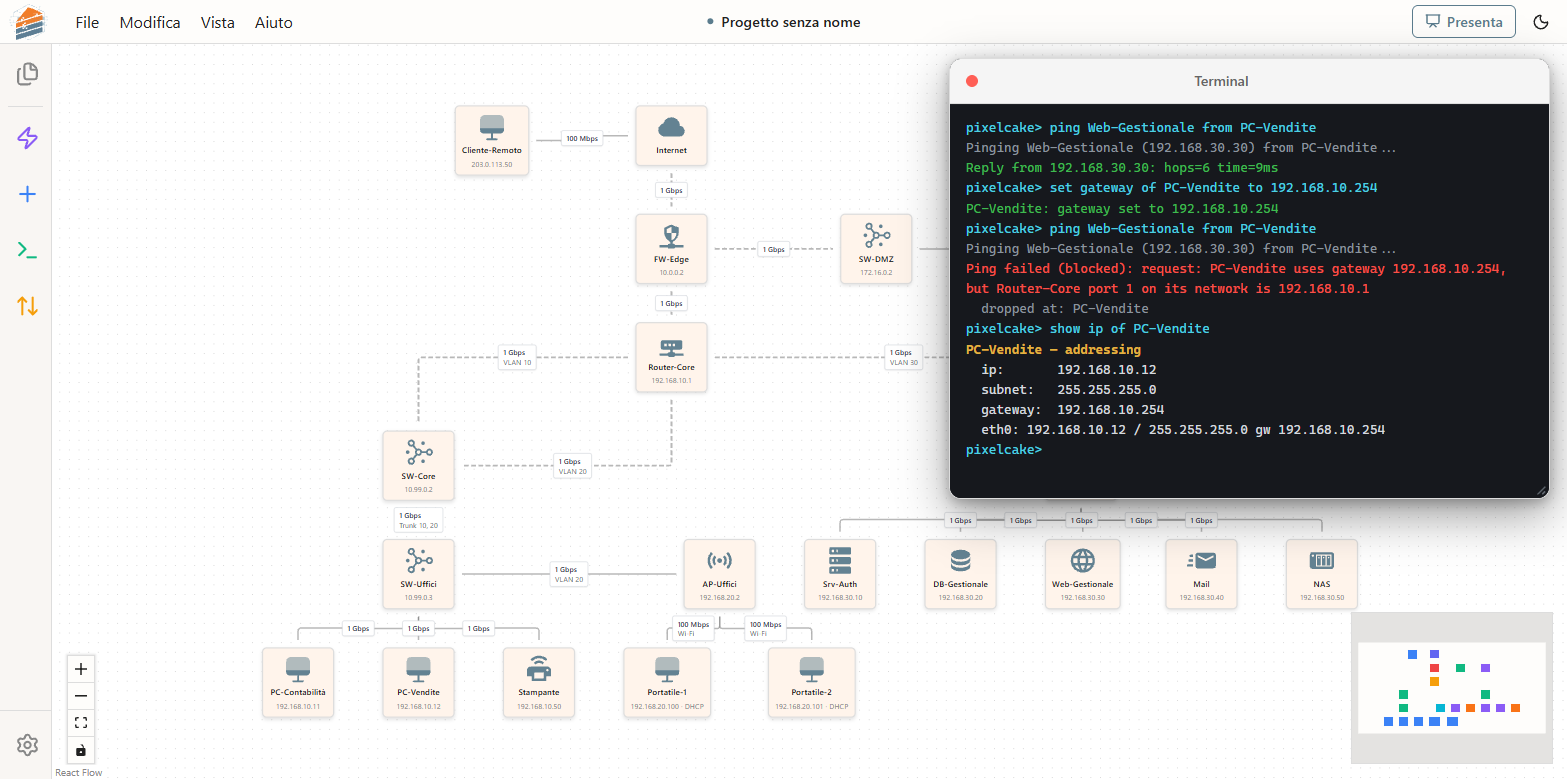
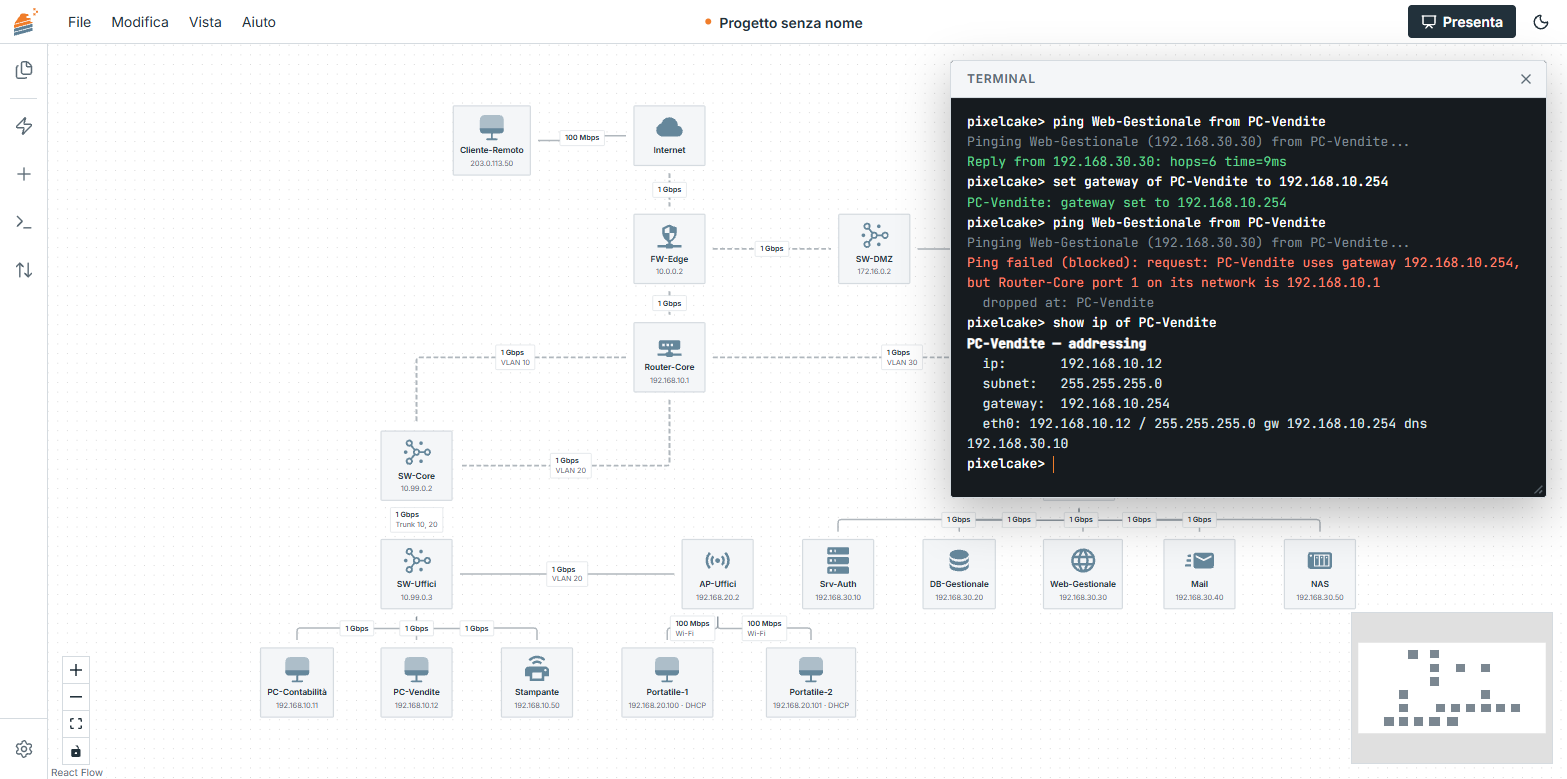
Documents and pictures for the new look
README: the three pictures taken again, the licence of the two typefaces,
and what a picture does with its texts. CHANGELOG and ARCHITECTURE: what
changed in the look and the rules it follows.

diff --git a/ARCHITECTURE.md b/ARCHITECTURE.md
@@ -104,7 +104,8 @@ While presenting, NetworkCanvas makes the drawing read-only (nothing is selected
 - **DeviceTypeDisplay** - Read-only device type preview with icon
 - **PortGrid** / **PortConfigPanel** - Port display grid + configuration panel
 - **NICList** / **NICConfigPanel** - NIC list with custom scrollbar + configuration panel
-- **Input/Select** - Compact form controls (`py-1.5`, accent color on focus)
+- **Input/Select** - Compact form controls (`py-1.5`, 14 px text, a ring of the accent on focus)
+- **Logo** - One of the four files of the logo, never drawn or typed: with the name or the symbol alone (`symbol`), in colour on a light page or negative on a dark one. The logo with the name is never asked narrower than 110 px (a test reads every use)
 
 ### Sidebar (`frontend/src/components/Sidebar/`)
 - **Sidebar** - Six buttons. Each shows its name beside it under the pointer or the keyboard; the name is drawn on the page through a portal, because the panel a button opens covers the sidebar's own layer
@@ -122,11 +123,26 @@ While presenting, NetworkCanvas makes the drawing read-only (nothing is selected
 - In the middle of the bar, the project that is open: its name, the canvas on screen when there is more than one, a dot while there are changes not saved to a file. A click opens the Explorer
 - No entry is there to announce a feature: an entry that cannot act (nothing selected to copy) is disabled only for as long as that is true
 
+## The look (`frontend/src/index.css`, `frontend/tailwind.config.js`)
+
+The interface follows the site: flat surfaces, thin lines, one accent.
+
+- **Every colour is a variable of the theme**, set for light in `:root` and for dark in `.dark` (the class is on `<html>`). No component names a colour of a fixed palette (`text-gray-500`, `dark:bg-…`) and none styles the dark theme apart: the variables change, the classes do not.
+- **Each colour has one job.** `--text-color` on `--bg-canvas` is the page, and the button that goes on is a block of the first with the second written on it (`Button` `primary`, `.presentation-primary`, `.welcome-button.primary`, `.explorer-button-accent`). `--accent-color`, the orange of the logo in both themes, marks a state: selected, in focus, open, where the packet is; what is written on a fill of it takes `--on-accent`, never white. `--accent-text` (the slate, dark on white and light on black) is for links and for the icons of a list. `--secondary-color` is the slate itself: the icon of a device, the end of a question. `--ok-color`, `--trunk-color` and `--danger-color` say that something works, is a trunk, is wrong.
+- **Under the pointer** a row, a menu entry or an icon takes `--bg-hover`, a flat grey, and an outline takes the colour of the text. Nothing glows, slides or grows.
+- **Corners** come from two sizes, `--radius` (4 px) and `--radius-small` (2 px); Tailwind's `rounded-*` are mapped to the same few values in `tailwind.config.js`. A device on the canvas keeps 3 px, the number the exported picture repeats. **Shadows** are for what floats over the page: menus, windows, a device while it is dragged.
+- **Labels** (the title of a panel, a `legend`, the heading of a section) are small capitals with space between the letters, as on the site.
+- **Typefaces**: Inter for the interface, JetBrains Mono for addresses and for the terminal, both bundled (`@fontsource-variable/inter`, `@fontsource/jetbrains-mono`, imported in `main.tsx`). The exported picture uses the typefaces of the computer instead: an SVG shown as an image cannot use the fonts of the page.
+- **The terminal** keeps a dark pane in both themes, in the colours of the terminal shown on the site (`TerminalModal.tsx`).
+
+Three test files keep it in one piece: `styleSheet.colours.test.ts` (no fixed palette, no variable without a value in both themes, one accent, nothing white on it), `utils/drawingImage.test.ts` (the picture repeats the colours and the numbers of the style sheet) and `components/Canvas/NetworkCanvas.theme.test.tsx` (the panels React Flow draws follow the theme).
+
 ## Reusable CSS Classes (`frontend/src/index.css`)
 
 | Category | Classes |
 |----------|---------|
-| Modal messages | `.modal-error-box`, `.modal-info-box` |
+| Modal messages | `.modal-error-box`, `.modal-info-box` (a rule on the left, the words in the colour of the text) |
+| A choice among a few | `.segmented` (buttons side by side, the chosen one `.active`) |
 | Explorer | `.explorer-button`, `.explorer-button-accent`, `.explorer-button-dashed`, `.explorer-canvas-card` |
 | NIC list | `.nic-list`, `.nic-card`, `.nic-card-selected` |
 
@@ -272,7 +288,9 @@ light or dark whatever the theme, a vector file, and a sharp PNG of any size.
 - The numbers of a device (padding, border, line heights) and the colours of
   the two themes are repeated from `index.css`. A test reads the style sheet
   and fails when they drift apart. The colours of presentation mode
-  (`MARK_COLORS`) are shared with `CustomEdge`.
+  (`MARK_COLORS`) are shared with `CustomEdge`; the two colours of a question
+  and of what is written on them (`ACCENTS`) are the `--accent-color`,
+  `--secondary-color`, `--on-accent` and `--on-secondary` of the theme.
 - Everything the user typed is written as text (`escapeXml`). An icon fetched
   by name for a custom template goes in only if it is a plain drawing
   (`isPlainDrawing`): no script, no style, no reference outside the document.

diff --git a/CHANGELOG.md b/CHANGELOG.md
@@ -65,6 +65,11 @@ and this project adheres to [Semantic Versioning](https://semver.org/spec/v2.0.0
   - Subtle 2px track line matching BulkAddDeviceModal design
 
 ### Changed
+- **The look of the interface.** The app looks like its site. White or near black surfaces with the greys of the logo, and one accent, the orange of the logo, in light and in dark: it marks a state (what is selected, where the focus is, where the packet is) and nothing else. Links and icons take the slate. The button that goes on is a block of ink, the one next to it an outline. What is under the pointer takes a flat grey: the glows, the gradients and the small movements are gone. Corners are barely rounded and a shadow is kept only for what floats over the page. The typefaces are Inter and JetBrains Mono and travel with the app: no request goes to a font service.
+- **The welcome screen** is laid out as a page of the site: the logo over a line, the motto, the three steps as a numbered list, one button to start and two outlines next to it.
+- **The sidebar** has icons of one colour; the panel that is open is marked in orange. **The terminal** has the colours of the one shown on the site, a title in place of the coloured dot, and an X to close it.
+- **The logo is the new one**: with its name on the welcome screen, the symbol alone on the menu bar, in the browser tab and at the foot of the settings and of the guide, where the logo with its name would be too small to read.
+- **The exported picture follows**: the same colours as the screen, no shadow under a device, the labels of the cables in the greys of the theme, and the letters on the two marks of a question («DA», «A») dark or light according to the colour they are on.
 - **The Internet does not carry private addresses.** A Cloud symbol named Internet refuses a packet whose source or destination is in a private range, and the reason says which of the two and what should have translated it. A drawing that crossed it with private addresses needs NAT on the port that faces it, and a port forward for what is reached from outside. A Cloud symbol with any other name is unchanged.
 - **The two samples with an Internet** (the company, and the site with a DMZ) do NAT on the firewall port that faces it and publish there what is reached from outside. Their answers are the same; what cannot be reached from outside now stops at the Internet.
 - **Connection points show where they are needed**: on the device under the pointer, on a selected one, and on all of them while a cable is being dragged. At rest the drawing has none.
@@ -91,6 +96,10 @@ and this project adheres to [Semantic Versioning](https://semver.org/spec/v2.0.0
   - Two-part processing: configurable devices (with ports) + standard devices (with NICs)
 
 ### Fixed
+- **Six colours of the interface had no value.** A few lists and buttons used style variables that nothing defined (`--bg-color-hover`, `--bg-color-secondary`, `--input-bg`, `--color-canvas`, `--color-bg`, `--accent-color-hover`): what they coloured was see-through. They take the colours of the theme, and a test fails when a variable is used that has no value in light and in dark.
+- **Dark theme: the address under a device was a different grey on screen and in the exported picture**, and so were the labels of the cables. Both take the greys of the theme.
+- **White letters on orange** (the mark of a link on a port, the badge of presentation mode, the start of a question) could hardly be read: they are the graphite of the logo.
+- **The logo with its name was shown 24 pixels wide** at the foot of two windows, too small to read: the symbol is there now.
 - **Adding a YAML file to the drawing lost its routes, firewall rules and port forwards.** Import/Export → Import with «Aggiungi alla topologia» now keeps them, as «Sostituisci topologia» always did.
 - **A device with no address on its network cards could not be saved from its window**: the Internet symbol, for one, could not even be renamed ("Nome e IP sono obbligatori"). The address is asked for only where it is typed, in the first tab; a device addressed through its cards, or by DHCP, needs a name.
 - **Dark theme: the zoom buttons and the small map are no longer white.** They take the colours of the theme, in light and in dark. The credit to React Flow is readable on a dark canvas and no longer runs under the zoom buttons.

diff --git a/README.md b/README.md
@@ -154,7 +154,7 @@ Opened from a presentation (the picture button on its bar), it shows what the pr
 - **DNS is one server, asked every time.** A network card names one DNS server: there is no second one to fall back on. A server answers only for the names written on it: it does not pass a question on to another server, and a public DNS server that is not in the drawing is nobody. Nothing is cached, so every question that uses a name looks it up again. There is no reverse lookup, and there are no aliases or wildcards. Names are for the terminal: the simulation panel and the presentation choose devices from menus.
 - **The Internet symbol is a stand-in.** It carries public addresses, with a note, and refuses private ones, as the Internet does. A Cloud symbol with any other name carries everything, with a note.
 - **No undo.** It does not exist yet.
-- **A picture is one board.** A project with several boards is exported one board at a time. The SVG names the fonts of the interface without embedding them: on a computer that has none of them the texts are set in another typeface. A PNG of a very large drawing is reduced to what the browser can paint, and the dialog says so.
+- **A picture is one board.** A project with several boards is exported one board at a time. Its texts are set in the typeface of the computer, not in the one of the interface, which a picture cannot carry along: the same picture opened on another computer can have slightly different letters. A PNG of a very large drawing is reduced to what the browser can paint, and the dialog says so.
 - **The YAML format is PixelCake's own.** Device names that look like numbers or booleans, and duplicate names, do not survive an export and import.
 - **The Terraform export cannot be applied.** It uses placeholder resource types and no provider. Reading existing Terraform state is not implemented.
 - **No accounts, no sharing.** A project is a file on your disk. Two browser tabs open on the same project do not see each other's changes: the last one to write wins.
@@ -216,7 +216,7 @@ Copyright © 2025–2026 [@Phil-pje](https://github.com/Phil-pje).
 
 PixelCake is released under the GNU Affero General Public License v3.0. See [LICENSE](LICENSE).
 
-The bundled icons keep their own licences: Material Design Icons (Apache 2.0), Lucide (ISC), Carbon (Apache 2.0) and Solar (CC BY 4.0, by 480 Design), obtained through [Iconify](https://iconify.design).
+The bundled icons keep their own licences: Material Design Icons (Apache 2.0), Lucide (ISC), Carbon (Apache 2.0) and Solar (CC BY 4.0, by 480 Design), obtained through [Iconify](https://iconify.design). So do the two typefaces of the interface, which travel with the app: Inter and JetBrains Mono, both under the SIL Open Font License 1.1.
 
 ## Contact
 
